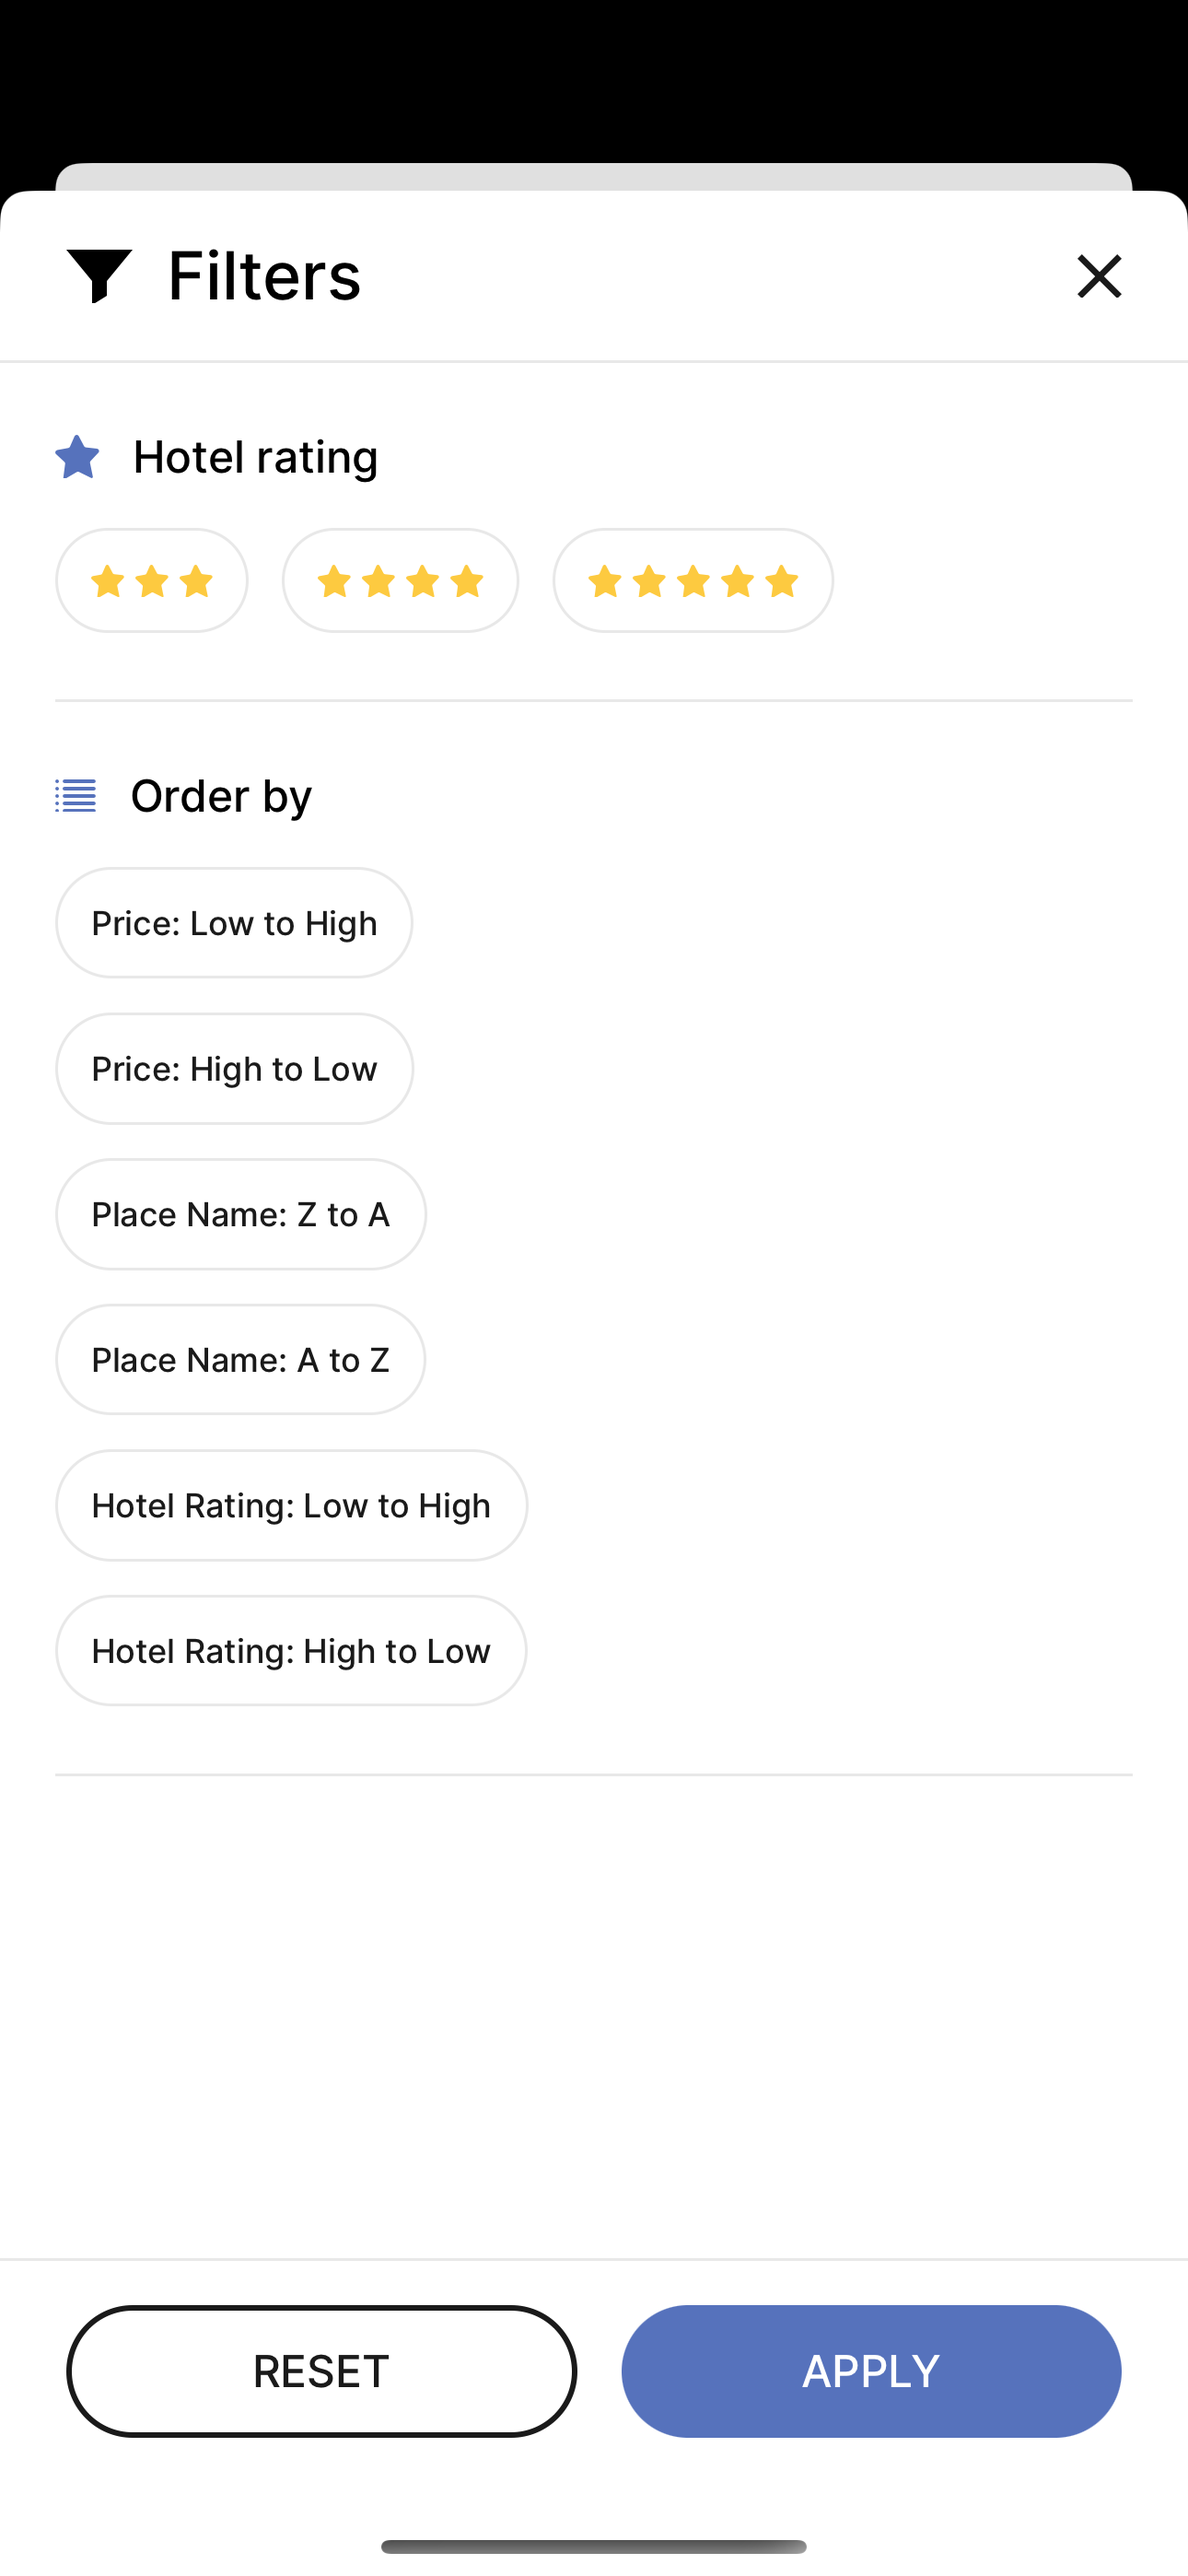
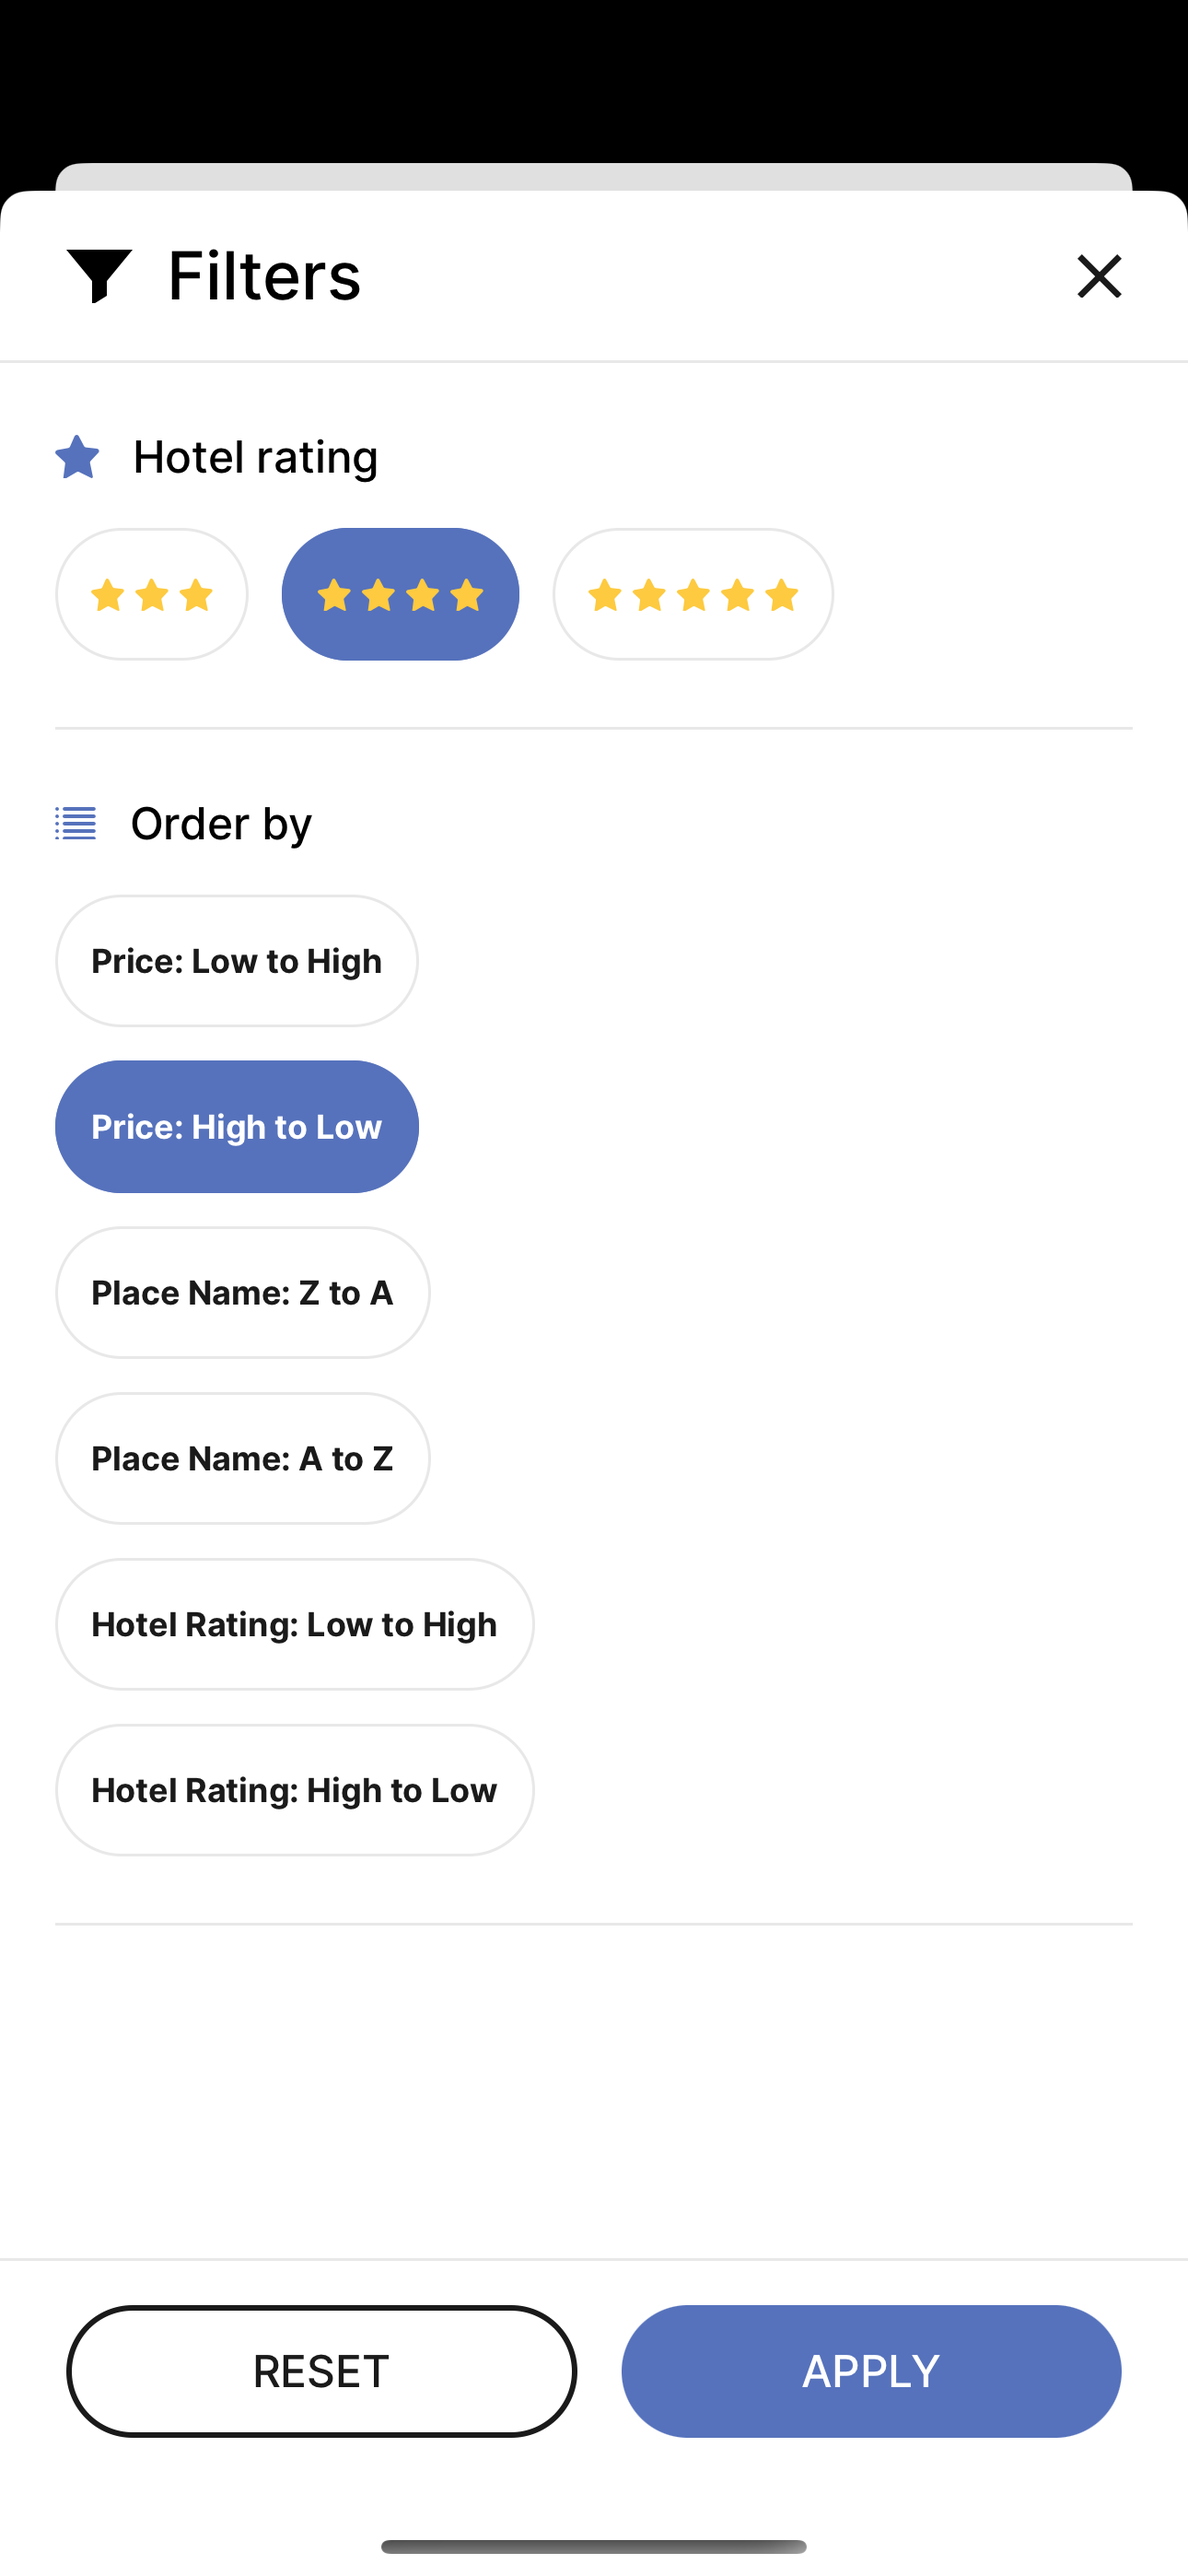
feat: updare screenshots and minor fixes

diff --git a/src/ui/components/basic/FilterChip/FilterChip.style.ts b/src/ui/components/basic/FilterChip/FilterChip.style.ts
@@ -14,10 +14,12 @@ export const styles = (isSelected: boolean) =>
 			borderRadius: Spacing.Fourfold,
 			borderWidth: 1,
 			borderColor: Colors.black.disabled,
+			height: Spacing.Sextuple,
+			justifyContent: "center",
 		},
 		text: {
 			fontSize: Spacing.Double,
-			fontFamily: Fonts.interMedium,
+			fontFamily: Fonts.interBold,
 			color: isSelected ? Colors.white.default : Colors.black.default,
 		},
 		selected: {

diff --git a/QA_TESTBOOK.MD b/QA_TESTBOOK.MD
@@ -1,16 +1,16 @@
 ## Testbook for manual tests
 
-- [1] As a user I am able to load the list of hotels when I open the app ✅
-- [2] As a user I am able to open the hotel detail page ✅
-- [3] As a user I am able to open an image on the gallery carousel ✅
-- [4] As a user I am able to click on the 'BOOK NOW' button and open the email app with the sender and the email object (only on physical devices) ✅
-- [5] As a user I am able search a specific hotel by the name in the search bar ✅
-- [6] As a user I am able to open the filter page ✅
-- [7] As a user I am able to filter the hotel list by the Hotel rating ✅
-- [8] As a user I am able to order the hotel list by one of the available options ✅
-- [9] As a user I am able to filter the hotel list by the Hotel rating and then order the list by one of the available options ✅
-- [10] As a user I am able to filter the hotel list by the Hotel rating and then order the list by one of the available options, and then perform a search with the search bar ✅
-- [11] As a user I am able to perform a search with the search bar, and then filter the hotel list by the Hotel rating and then order the list by one of the available options ✅
-- [12] As a user I am able to perform the step [10] and then again the step [5] ✅
-- [13] As a user I am able to perform the step [11] and then again the step [5] ✅
-- [14] As a user I am able to perform the step [11] and then reset the filters ✅
+- [1] As a user, I am able to load the list of hotels when I open the app ✅
+- [2] As a user, I am able to open the hotel detail page ✅
+- [3] As a user, I am able to open an image in the gallery carousel ✅
+- [4] As a user, I am able to click on the 'BOOK NOW' button and open the email app with the sender and email subject (only on physical devices) ✅
+- [5] As a user, I am able to search for a specific hotel by name in the search bar ✅
+- [6] As a user, I am able to open the filter page ✅
+- [7] As a user, I am able to filter the hotel list by hotel rating ✅
+- [8] As a user, I am able to order the hotel list by one of the available options ✅
+- [9] As a user, I am able to filter the hotel list by hotel rating and then order the list by one of the available options ✅
+- [10] As a user, I am able to filter the hotel list by hotel rating, then order the list by one of the available options, and then perform a search with the search bar ✅
+- [11] As a user, I am able to perform a search with the search bar, then filter the hotel list by hotel rating, and then order the list by one of the available options ✅
+- [12] As a user, I am able to perform step [10] and then repeat step [5] ✅
+- [13] As a user, I am able to perform step [11] and then repeat step [5] ✅
+- [14] As a user, I am able to perform step [11] and then reset the filters ✅

diff --git a/README.md b/README.md
@@ -67,3 +67,9 @@ hotelist is a simple and responsive mobile application built with Expo and React
    ```bash
     npx expo start
    ```
+
+## Run unit tests
+
+```bash
+npm run test
+```
